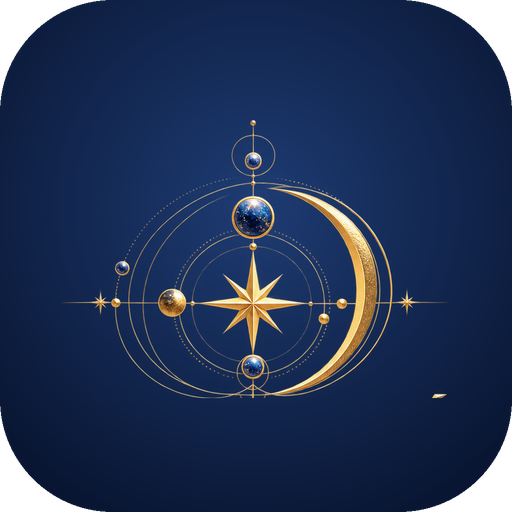
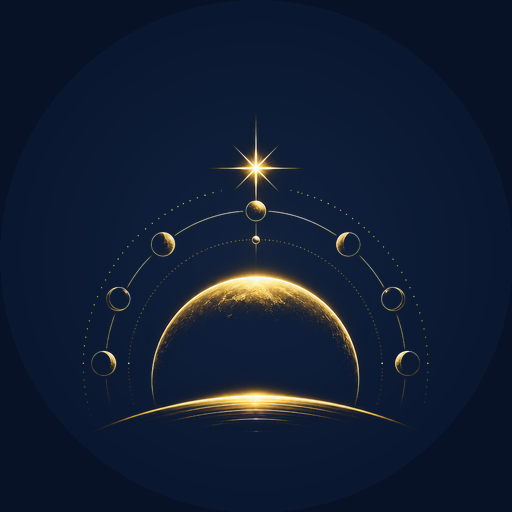
Uvitaci obrazovka s novym logem (fade-in emblem + tagline) a nove ikony aplikace z emblemu Plejad (192/512/maskable) + SW v82

diff --git a/index.html b/index.html
@@ -341,6 +341,12 @@ details.expl .card p:last-child{margin:0}
 .eltoggle.open{border-bottom-left-radius:0;border-bottom-right-radius:0;margin-bottom:0}
 .eltoggle.open+.card{border-top-left-radius:0;border-top-right-radius:0;margin-top:0;border-top:0}
 .elect .elq{margin:0 0 9px;font-size:14px;color:var(--text)}
+#splash{position:fixed;inset:0;z-index:999;display:grid;place-items:center;align-content:center;gap:18px;
+  background:linear-gradient(180deg,#0A1B33 0%,#081527 55%,#050E1C 100%);transition:opacity .55s ease}
+#splash img{width:min(310px,66vw);height:auto;animation:spIn 1.1s ease both}
+#splash .sp-tag{font-size:11px;letter-spacing:.34em;text-transform:uppercase;color:rgba(240,216,152,.72);animation:spIn 1.1s .15s ease both}
+#splash.done{opacity:0;pointer-events:none}
+@keyframes spIn{from{opacity:0;transform:translateY(8px) scale(.985)}to{opacity:1;transform:none}}
 .echips{display:flex;flex-wrap:wrap;gap:7px}
 .strip-wrap{position:relative}
 .strip-nav{display:none;position:absolute;top:50%;transform:translateY(-50%);z-index:2;width:34px;height:34px;border-radius:50%;border:1px solid rgba(240,216,152,.45);background:rgba(11,19,40,.85);color:var(--gold);font-size:19px;line-height:1;cursor:pointer;place-items:center;padding:0 0 2px}
@@ -524,6 +530,7 @@ table.pts td.p{font-family:var(--mono);white-space:nowrap}
 </style>
 </head>
 <body>
+<div id="splash" aria-hidden="true"><img src="logo2.webp?v=1" alt=""><span class="sp-tag">v souladu s rytmem nebes</span></div>
 <div id="skybg" aria-hidden="true"></div>
 <div class="app" id="app">
   <header class="top">
@@ -3172,6 +3179,8 @@ ${parts}
   setInterval(applyTheme, 240000);
   showTab(['kalendar', 'ukazy', 'diar', 'nativ', 'nastaveni'].includes(store.get('kairos_tab', 'kalendar')) ? store.get('kairos_tab', 'kalendar') : 'kalendar');
   loadKp(false);
+  (() => { const sp = $('#splash'); if (!sp) return; const off = () => { sp.classList.add('done'); setTimeout(() => sp.remove(), 650); };
+    requestAnimationFrame(() => setTimeout(off, 450)); setTimeout(off, 6000); })();
   document.addEventListener('change', (e) => {
     if (e.target && e.target.id === 'jFile' && e.target.files && e.target.files[0]) {
       const fr = new FileReader();

diff --git a/sw.js b/sw.js
@@ -1,5 +1,5 @@
 /* Kairos – service worker. Při každé změně index.html zvedni číslo verze. */
-const CACHE = 'kairos-v81';
+const CACHE = 'kairos-v82';
 const SHELL = ['./', './index.html', './astronomy.browser.min.js', './manifest.webmanifest', './logo.png', './logo2.webp?v=1', './icon-192.png', './icon-512.png', './icon-maskable-512.png', './sky-day.webp?v=7', './sky-night.webp?v=2'];
 
 self.addEventListener('install', (e) => {
